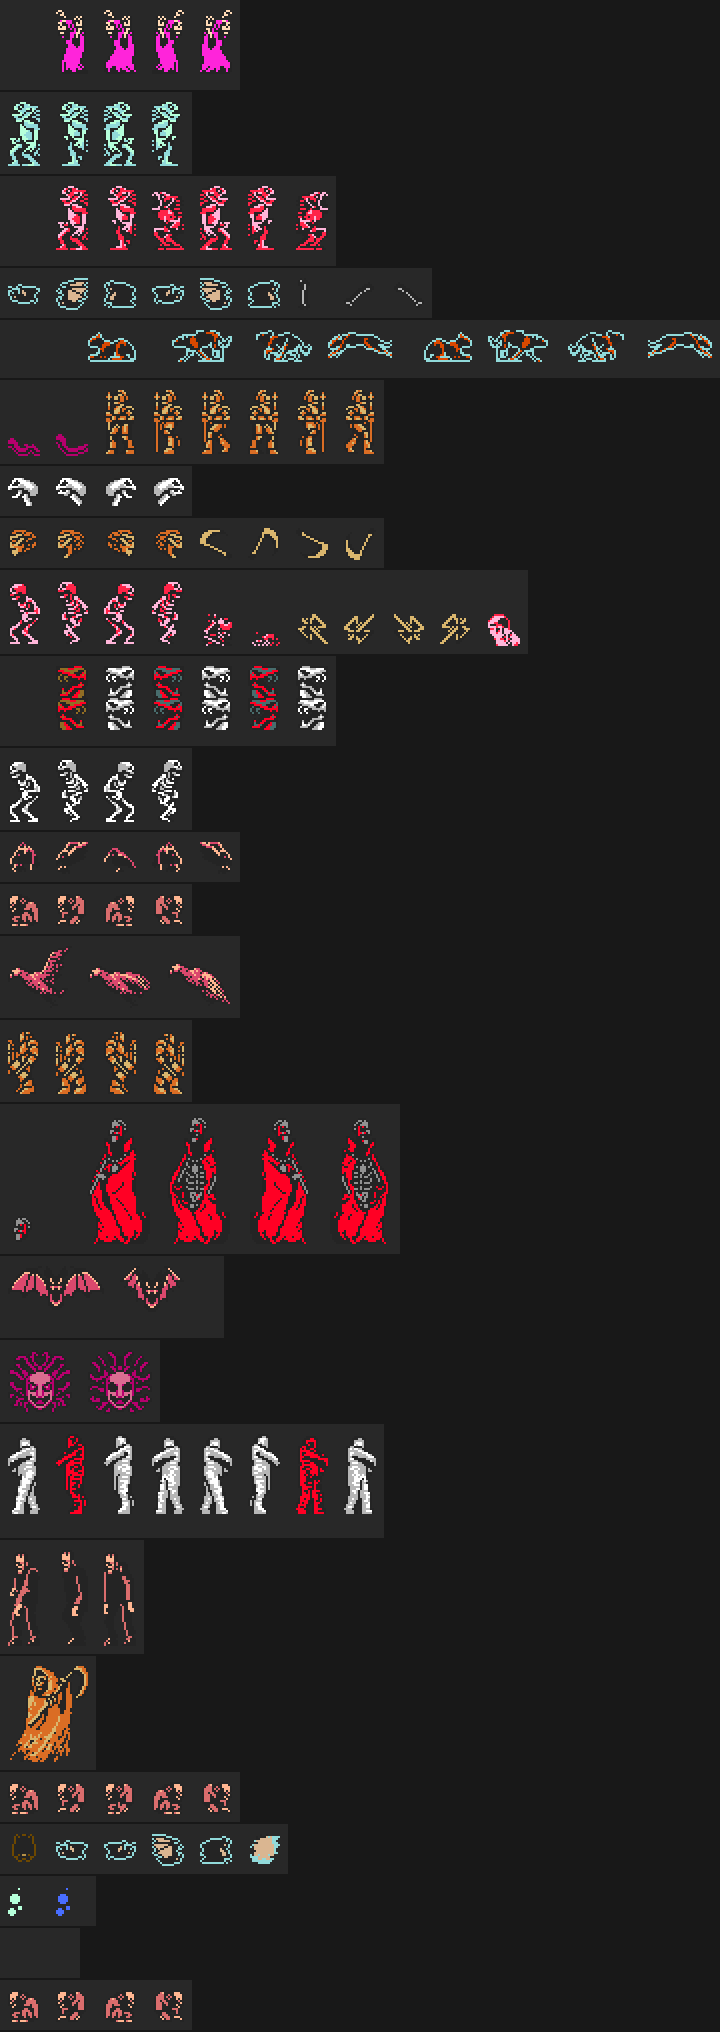
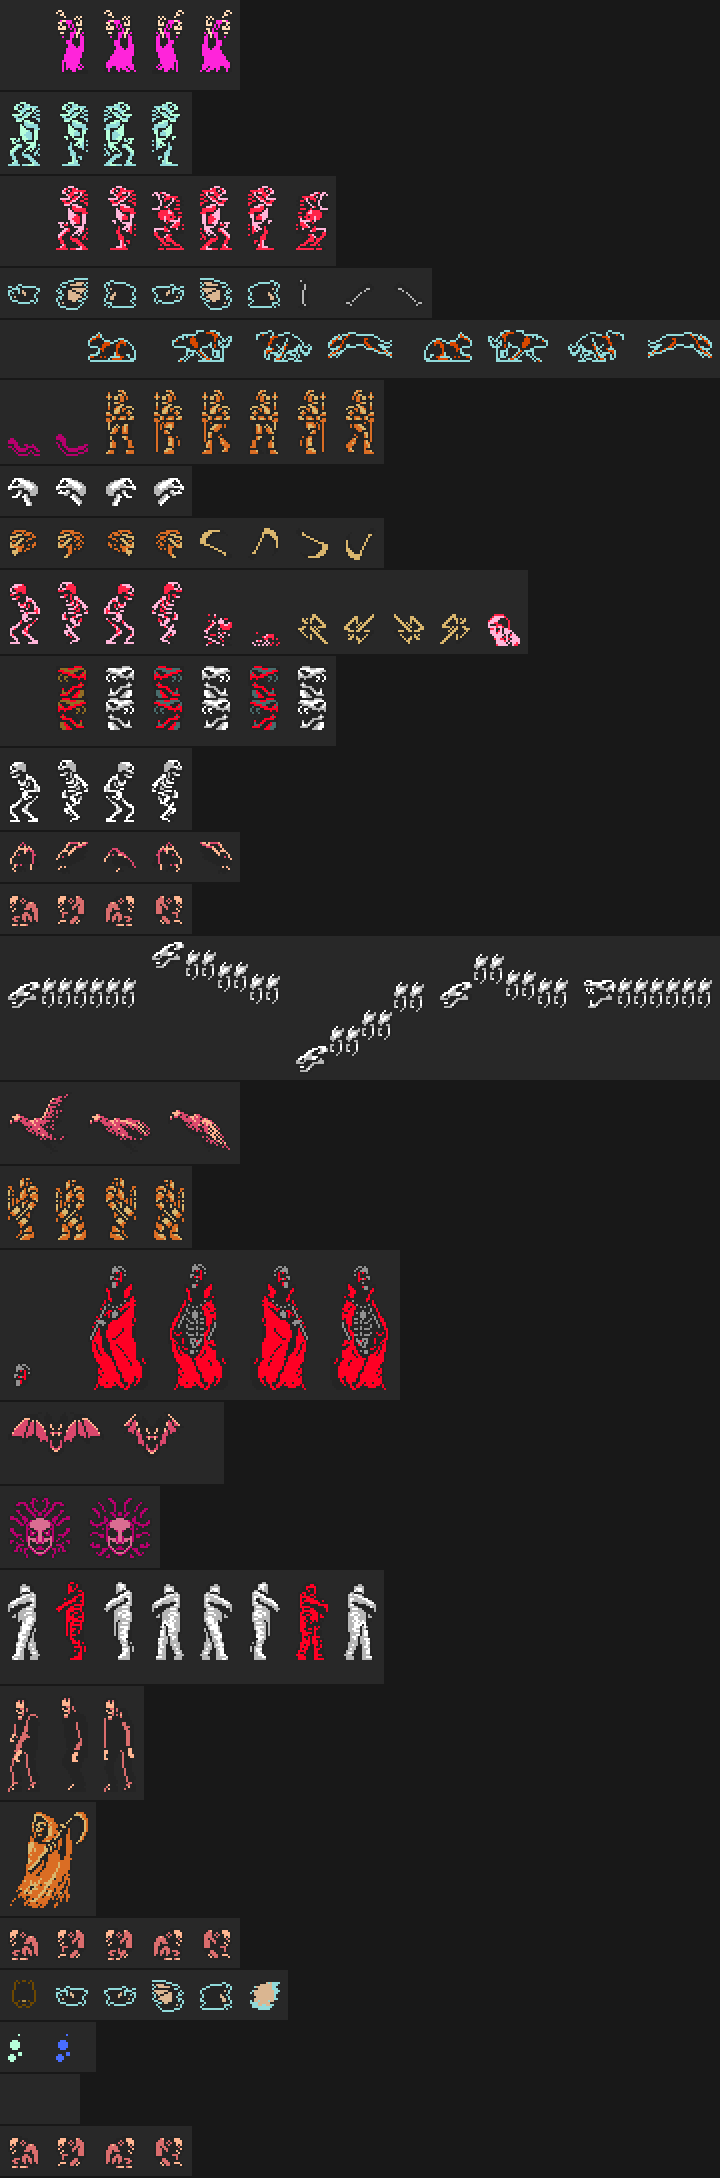
El dragon de huesos (tipo 0x0E) desde sus tablas, cotejado
No pasa por 0xB473: cuatro tramos de dos sprites (0xAB0E) que se estiran a
x - 0x30..0 (0xAB1E) y suben y bajan con los ocho registros de 0xAAAD
(p03:AA0B), con la boca abierta al escupir (p03:AA37). enemigos.tramos lo
monta; coteja.py enemigos: sus 1.996 muestras, 1.347 en un registro y 649
entre dos, ninguna sin explicar. Su fila, en enemigos.png.

diff --git a/tools/enemigos.py b/tools/enemigos.py
@@ -20,7 +20,8 @@ tablas como las monta el cartucho.
   Los cuadros de animacion y los parpadeos de color los elige el codigo de
   cada tipo; se toman de lo que se vio en openMSX (tools/lanza_cosas.sh: 250
   cuadros por habitacion en work/cosas) y cada muestra se coteja: su
-  geometria tiene que ser la de 0xB473.
+  geometria tiene que ser la de 0xB473 (clasifica_muestras; coteja.py
+  enemigos). El tipo 0x0E, un dragon de huesos, se monta aparte (tramos).
 
 Uso:  enemigos.py lista [fase]    las cosas de cada habitacion
       enemigos.py                 docs/imagenes/enemigos.png
@@ -129,24 +130,52 @@ def _relativo(spr):
     return [((a[0] - spr[0][0]) & 0xFF, (a[1] - spr[0][1]) & 0xFF, a[2]) for a in spr] if spr else []
 
 
-def coteja_muestras(cart):
-    """Cuantas muestras compuestas tienen la geometria (posiciones relativas y
-    patrones) de 0xB473 con su dibujo, con el dibujo de otro cuadro (lo cambio
-    el codigo despues de componer) o ninguna."""
-    bien = otro = mal = 0
-    malas = []
-    for fase, hab, cuadro, tipo, dibujo, y, x, spr in muestras():
-        if tipo in SIN_COMPONER or not spr:
-            continue
-        n = len(spr)
-        if _relativo(compone(cart, tipo, dibujo, 0, 0, n)) == _relativo(spr):
-            bien += 1
-        elif any(_relativo(compone(cart, tipo, d, 0, 0, n)) == _relativo(spr) for d in range(256)):
-            otro += 1
-        else:
-            mal += 1
-            malas.append((fase, hab, cuadro, tipo, dibujo))
-    return bien, otro, mal, malas
+# ------------------------------------------------------------ el tipo 0x0E
+# No pasa por 0xB473: cuatro tramos de dos sprites con CC (0xAB0E: la cabeza
+# 0x80/0x84, que con la boca abierta, p03:AA37, es 0x70/0x74, y tres tramos
+# 0x78/0x7C). p03:AACD los estira desde donde nace hasta x - 0x30, - 0x20,
+# - 0x10 y + 0 (0xAB1E), un punto por cuadro (p03:AA67, dos veces), y
+# p03:AA8A los lleva, cada tanto al azar (p03:AA7D), a la altura de uno de
+# los ocho registros de 0xAAAD (lo que se suma a su y, por tramo).
+TRAMOS = 0x0E
+SPRITES_DE_LOS_TRAMOS = 0xAB0E       # banco 3: (patron, color) de los ocho
+X_DE_LOS_TRAMOS = 0xAB1E             # banco 3: cuatro, desde la x
+ALTURAS_DE_LOS_TRAMOS = 0xAAAD       # banco 3: ocho registros de cuatro
+BOCA_ABIERTA = (0x70, 0x74)          # p03:AA37
+B3 = (1, 2, 3)
+
+
+def tramos(cart, registro, x, y, abierta=False):
+    """[(y, x, patron, color)] de los ocho sprites en reposo."""
+    fuera = []
+    for s in range(8):
+        k = s // 2
+        patron = cart.leer(SPRITES_DE_LOS_TRAMOS + 2 * s, B3)
+        if abierta and s < 2:
+            patron = BOCA_ABIERTA[s]
+        fuera.append(((y + cart.leer(ALTURAS_DE_LOS_TRAMOS + 4 * registro + k, B3)) & 0xFF,
+                      (x + cart.leer(X_DE_LOS_TRAMOS + k, B3)) & 0xFF,
+                      patron, cart.leer(SPRITES_DE_LOS_TRAMOS + 2 * s + 1, B3)))
+    return fuera
+
+
+def clasifica_los_tramos(cart, fase, hab, spr):
+    """'en un registro', 'entre dos' (cada tramo entre donde nace y su x
+    final, y entre la altura mas baja y la mas alta de los registros) o
+    'sin explicar'. Nace donde dice la lista de la habitacion."""
+    x0, y0 = next((x, y) for t, x, y, _ in cosas_de_la_fase(cart, fase)[hab] if t == TRAMOS)
+    abierta = spr[0][2] == BOCA_ABIERTA[0]
+    quietos = [tramos(cart, r, x0, y0, abierta) for r in range(8)]
+    if [a[2:4] for a in spr] != [a[2:4] for a in quietos[0]]:
+        return "sin explicar"
+    if any([tuple(a[:2]) for a in spr] == [a[:2] for a in q] for q in quietos):
+        return "en un registro"
+    for s, a in enumerate(spr):
+        ys = [q[s][0] for q in quietos]
+        xf = quietos[0][s][1]
+        if not (min(ys) <= a[0] <= max(ys) and min(x0, xf) <= a[1] <= max(x0, xf)):
+            return "sin explicar"
+    return "entre dos"
 
 
 def clasifica_muestras(cart):
@@ -175,6 +204,12 @@ def clasifica_muestras(cart):
 
     clases, raras = Counter(), []
     for fase, hab, cuadro, tipo, dibujo, y, x, spr in muestras():
+        if tipo == TRAMOS and spr:
+            c = "tramos: " + clasifica_los_tramos(cart, fase, hab, spr)
+            clases[c] += 1
+            if c.endswith("sin explicar"):
+                raras.append((fase, hab, cuadro, tipo, dibujo, [a[:3] for a in spr]))
+            continue
         if tipo in SIN_COMPONER or not spr:
             continue
         n, s3 = len(spr), [a[:3] for a in spr]
@@ -195,6 +230,25 @@ def clasifica_muestras(cart):
             clases["sin explicar"] += 1
             raras.append((fase, hab, cuadro, tipo, dibujo, s3))
     return clases, raras
+
+
+def hoja_de_los_tramos(cart, fase=12, hab=0):
+    """El tipo 0x0E en cuatro de sus registros con la boca cerrada (el 6 es
+    el 2 y los demas, parecidos) y en el primero con la boca abierta, con los
+    patrones y la paleta de su habitacion."""
+    v0 = habitacion(cart, fase, hab)
+    poses = [(0, False), (1, False), (2, False), (7, False), (0, True)]
+    ancho, alto = 72, 72
+    fila = [[(40, 40, 40)] * (ancho * len(poses)) for _ in range(alto)]
+    for k, (r, abierta) in enumerate(poses):
+        v = Vram()
+        v.v[:] = v0.v
+        v.paleta = v0.paleta
+        for s, (yy, xx, patron, color) in enumerate(tramos(cart, r, 0x80, 0x80, abierta)):
+            v.v[ATRIBUTOS + 4 * s:ATRIBUTOS + 4 * s + 3] = bytes((yy, xx, patron))
+            v.v[COLORES + 16 * s:COLORES + 16 * s + 16] = bytes([color]) * 16
+        pinta_sprites(v, fila, 8, dy=0x80 - 20, dx=0x80 - 0x30 - 4 - k * ancho)
+    return fila
 
 
 def vistos(cart):
@@ -249,7 +303,10 @@ def hoja(cart, por_tipo, tope=12):
     patrones y la paleta de la habitacion donde se vio."""
     salas = {}
     filas = []
-    for tipo in sorted(por_tipo):
+    for tipo in sorted(set(por_tipo) | {TRAMOS}):
+        if tipo == TRAMOS:
+            filas.append(hoja_de_los_tramos(cart))
+            continue
         cuadros = sorted(por_tipo[tipo])[:tope]
         cajas = []
         for dibujo, colores, fase, hab in cuadros:
@@ -295,11 +352,8 @@ def main():
                 print("fase %2d hab %2d: %s" % (f, h, ", ".join("tipo %d en (%d, %d)%s" % (t, x, y, "*" if b else "")
                                                                for t, x, y, b in cs)))
         return
-    bien, otro, mal, malas = coteja_muestras(cart)
-    print("muestras: %d con la geometria de su dibujo, %d con la de otro cuadro, %d sin ninguna" % (bien, otro, mal))
-    if "-v" in sys.argv:
-        from collections import Counter
-        print("sin ninguna, por tipo:", sorted(Counter(t for _, _, _, t, _ in malas).items()))
+    clases, raras = clasifica_muestras(cart)
+    print("muestras: " + ", ".join("%d %s" % (n, c) for c, n in clases.most_common()))
     por_tipo = vistos(cart)
     print("tipos vistos:", sorted(por_tipo))
     print(guarda_png(hoja(cart, por_tipo), os.path.join(IMAGENES, "enemigos.png"), 2))
